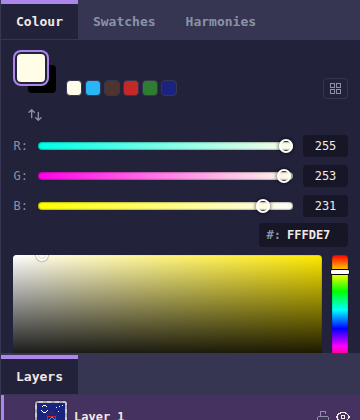
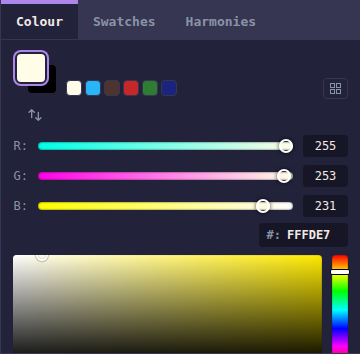
OctoBit Studio Preview

diff --git a/README.md b/README.md
@@ -11,10 +11,9 @@
   <br/><br/>
 
   <img src="https://img.shields.io/badge/version-1.4.α-AE86EB?style=flat-square&labelColor=22223B" alt="version" />
-  <img src="https://img.shields.io/badge/React-19-61DAFB?style=flat-square&logo=react&logoColor=black&labelColor=22223B" alt="React" />
-  <img src="https://img.shields.io/badge/TypeScript-5-3178C6?style=flat-square&logo=typescript&logoColor=white&labelColor=22223B" alt="TypeScript" />
-  <img src="https://img.shields.io/badge/Canvas_2D_API-no_libs-AE86EB?style=flat-square&labelColor=22223B" alt="Canvas 2D" />
-  <img src="https://img.shields.io/badge/source-private-363652?style=flat-square&labelColor=22223B" alt="source" />
+  <img src="https://img.shields.io/badge/React-61DAFB?style=flat-square&logo=react&logoColor=black&labelColor=22223B" alt="React" />
+  <img src="https://img.shields.io/badge/TypeScript-3178C6?style=flat-square&logo=typescript&logoColor=white&labelColor=22223B" alt="TypeScript" />
+  <img src="https://img.shields.io/badge/Canvas_2D-API-orange?style=flat-square&labelColor=22223B" alt="Canvas 2D" />
 </div>
 
 ---
